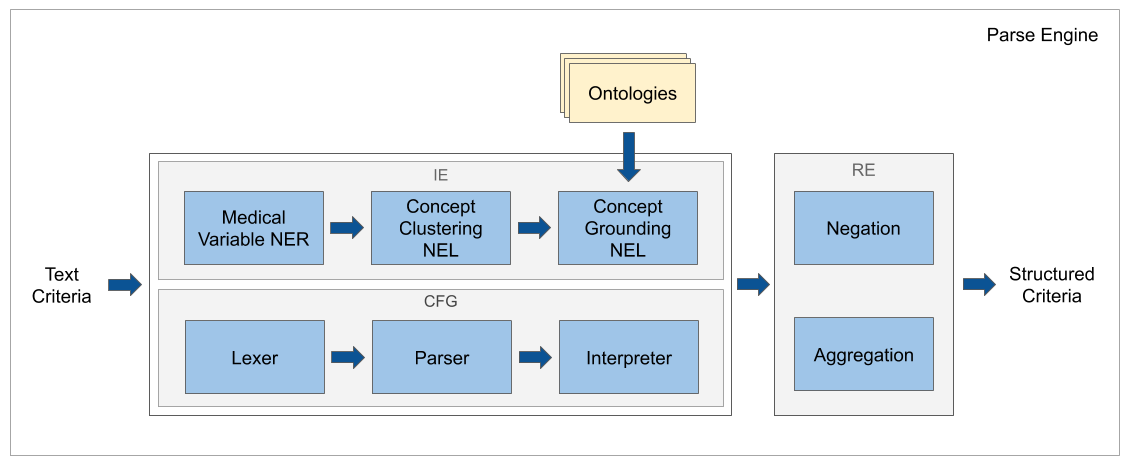
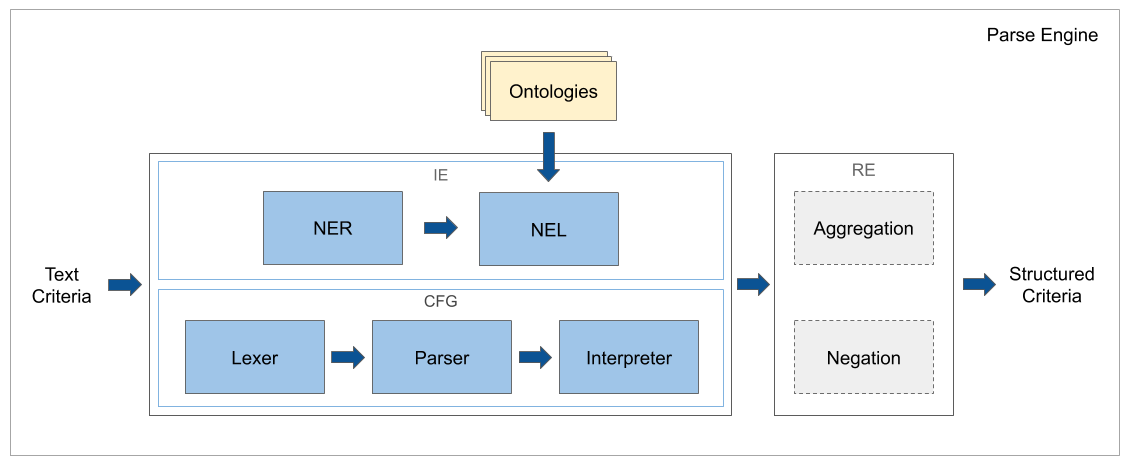
Make a better distinction between released implementation and feasibility findings

Changed region(s): [[0.1549, 0.0903, 0.6195, 0.572], [0.6814, 0.6624, 0.8363, 0.843], [0.6814, 0.3914, 0.8363, 0.572]]

diff --git a/doc/architecture.md b/doc/architecture.md
@@ -16,7 +16,6 @@
   - [NER](#ner)
   - [NEL](#nel)
   - [Vocabularies](#vocabularies)
-  - [Clustering](#clustering)
 - [RE](#re)
   - [Negation](#negation)
   - [Aggregation](#aggregation)
@@ -24,15 +23,15 @@
 ## General
 
 The parser splits extraction by variable type. It handles 3 types of variables:
- - **Nominal Requirements**: Requirements comprising a nominal variable 
+ - **Nominal requirements**: Requirements comprising a nominal variable 
  (e.g., pregnant, leukemia, allergy) and a condition on the variable - i.e., does 
  the study require or forbid the participant to have that variable. 
  These are the most common types of requirements. Examples: "Cannot have heart disease", 
  "Can have a peanut allergy".
- - **Ordinal Requirements**: Requirements comprising an ordinal variable 
+ - **Ordinal requirements**: Requirements comprising an ordinal variable 
  (e.g., ECOG score, NYHA score) and a set of eligible values. 
  Example: "ECOG score must be 0, 1, or 2".
- - **Numerical Requirements**: Requirements comprising a numerical variable 
+ - **Numerical requirements**: Requirements comprising a numerical variable 
  (e.g., age, BMI, platelet count) and an eligible range for the variable. 
  Examples: "BMI < 40 kg/m2", "age must be ≥18 years and ≤ 35 years".
 
@@ -53,9 +52,9 @@ Ordinal and numerical requirements are extracted via context-free grammar (CFG):
 - **Parser** takes a sequence of tokens as an input and uses grammar production rules to build parse trees
 - **Interpreter** analyses the parse trees by removing duplicates and sub-trees
 
-All requirement types use:
-- **Relation Extraction (RE)**: General RE finds the relationship between 2 extracted concepts 
-(e.g., X is married to Y). The clinical trial RE finds the relationship between trial criteria 
+All requirement types should use:
+- **Relation extraction (RE)**: General RE finds the relation between 2 extracted concepts 
+(e.g., X is married to Y). The clinical trial RE finds the relation between trial criteria 
 and extracted variables, or in other words, the RE determines the condition a trial requires 
 for a specific variable (e.g., determining the difference between "must have heart disease" 
 and "must not have heart diseases").
@@ -95,7 +94,7 @@ are frequently syntactically imperfect.
 ### Parser
 
 The parser takes a sequence of tokens as an input and uses grammar production rules to build parse trees. 
-Note: the lexer tokens are the terminal nodes of the grammar production rules.
+The lexer tokens are the terminal nodes of the grammar production rules.
 
 The parser uses the modified Cocke–Younger–Kasami (CYK) algorithm, which accepts grammar production rules 
 that are in the binary normal form. The binary form ensures an efficient parsing algorithm. 
@@ -121,16 +120,22 @@ samples. Overall F1 of NER extraction is about 0.88.
 ### NEL
 
 Medical variable NEL begins by normalizing the extracted variables by removing common non-significant words.
-Normalized terms are directly linked to medical concepts from an ontology. Links between terms and concepts could 
-also be computed by grouping terms into clusters with word embeddings. The clustered terms can then be matched to 
-additional medical concepts. This grounding of extracted terms to controlled medical concepts gives the medical variables 
-and machine-readable nominal relations. This is useful because:
+Normalized terms are directly linked to medical concepts from an ontology. This grounding of extracted terms 
+to controlled medical concepts gives the medical variables and machine-readable nominal relations. 
+This is useful because:
 
 - Duplicate entities are removed
 - Synonym entities are grounded to same concepts
 - Grounded entities are given a hierarchy, which is useful when filtering on vague requirements 
 in favor of more specific requirements (e.g., filter requirements for "cancer" in favor of requirements for "breast cancer")
 - Grounded entities are linked to IDs, which are an industry standard and useful for interoperability
+
+There are multiple ways to reference a medical concept. For example, some clinical trials use 
+the terms "neoplasm", "tumor", and "cancer" interchangeably. Extracted terms may also include a variable 
+number and type of qualifiers. Because of this a simple linking of extracted terms to concepts
+may lead to a low recall. We experimented by projecting the cleaned and extracted terms into 
+an embedding space and clustering the term vectors. The clustered terms can then be matched to 
+additional medical concepts. This improved the NEL recall.
 
 ### Vocabularies
 
@@ -160,24 +165,17 @@ MeSH concepts.
  | *Curated Hierarchy for Technology Access Requirements* |
 
 
-### Clustering
-
-There are multiple ways to reference a medical concept. For example, some clinical trials use 
-the terms "neoplasm", "tumor", "cancer" interchangeably. Extracted terms may also include a variable 
-number and type of qualifiers. Because of this a simple linking of extracted terms to concepts
-may lead to a low recall. We experimented by projecting the cleaned and extracted terms into 
-an embedding space and clustering the term vectors. Using a statistical analysis, groundings 
-were propagated to ungrounded terms. This improved the NEL recall.
-
 ## RE
+
+The architecture design references relation extraction (RE), which we have demonstrated to be feasible 
+but have [not yet included](TODO.md) in the parser implementation.
 
 ### Negation
 
-The implementation relies on rules for negation detection. Every nominal requirement is worded 
-in such a way as to either include or preclude participation depending on certain characteristics 
-(e.g. "participants must be pregnant" vs "participants cannot be pregnant"). Correctly parsing 
-the negation is the same as either parsing the requirement exactly right or exactly wrong. Unfortunately, 
-the criteria writers sometimes incorrectly structure their requirements leading to logical paradoxes. 
+Nominal requirements are worded in such a way as to either include or preclude participation 
+depending on certain characteristics (e.g. "participants must be pregnant" vs "participants cannot be pregnant").
+Negations can be detected using [NegEx](https://code.google.com/archive/p/negex/) or similar public algorithms.
+Criteria are sometimes incorrectly formulated leading to logical paradoxes. 
 For example, a study might list "not pregnant" as a requirement in both the inclusion and exclusion 
 criteria sections. Readers must know the context and the common practice to determine that the study 
 is actually simply asking for participants that are not pregnant.
@@ -185,15 +183,7 @@ is actually simply asking for participants that are not pregnant.
 ### Aggregation
 
 For the sake of extra clarity at the cost of being redundant, studies often stipulate the same 
-requirement in many ways (i.e. a study might list "participants cannot be pregnant" in 
-the inclusion section while also listing  "participants who are pregnant" in the exclusion section). 
-The IE picks up on all mentions of requirements, and sometimes mistakenly interprets the same 
-requirement twice. To remove contradictory requirements it is necessary to aggregate and deduplicate 
-requirements on a trial level.
-
-To do so, we use a series of rules that work on the requirement level. For each requirement, 
-the rules take into account detected negation, inclusion/exclusion criteria section and 
-condition overrides by domain. The condition overrides were implemented based on the observation 
-that conditions across certain domains are universal. For example, whenever a study mentions 
-"contraception consent" it is always in the affirmative. Studies never require participants 
-to not consent to contraception.
+requirement in multiple ways (i.e. a study might list "participants cannot be pregnant" in 
+the inclusion section while also listing "participants who are pregnant" in the exclusion section). 
+The IE may mistakenly interpret the same requirement twice. To remove contradictory requirements 
+it is necessary to aggregate and deduplicate requirements on a trial level.

diff --git a/doc/TODO.md b/doc/TODO.md
@@ -1,6 +1,6 @@
 # TODO
 
 To complete the IE pipeline into a full parser solution, the following components should be implemented: 
-- Add negation to IE
+- Add aggregation and negation (RE)
 - Post process IE relations and merge with CGF results
 - Add clustering to NEL
